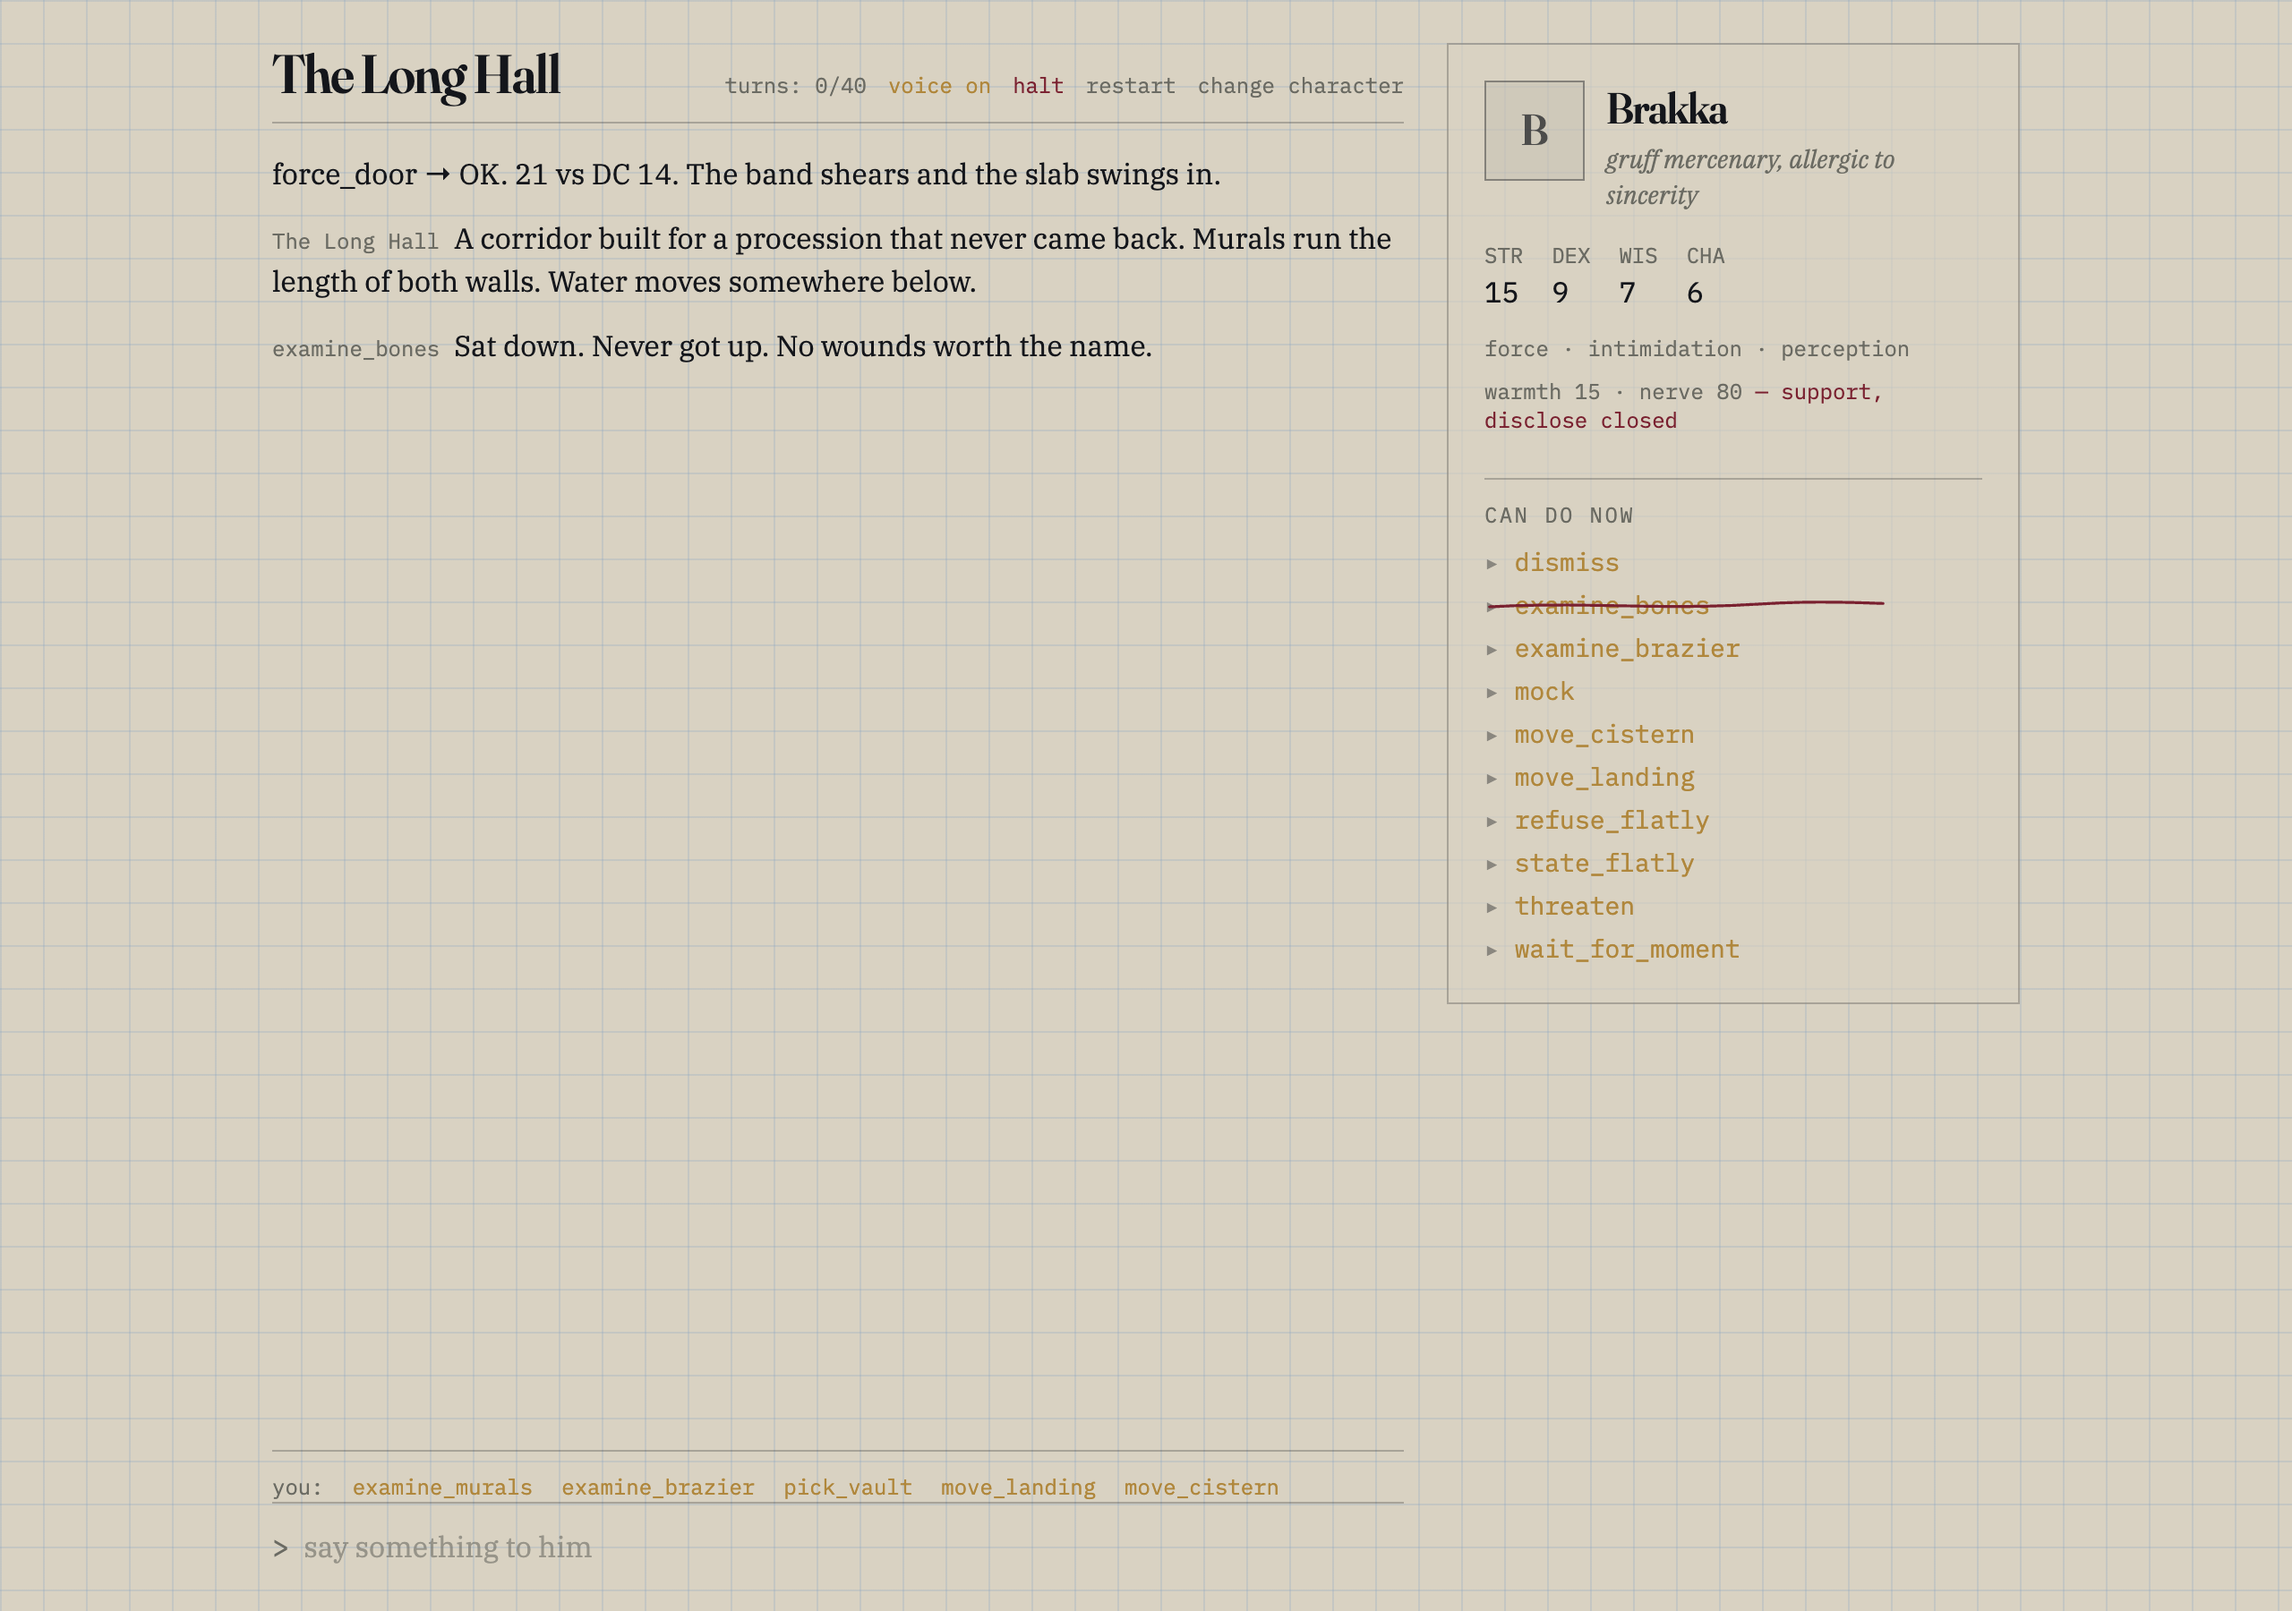
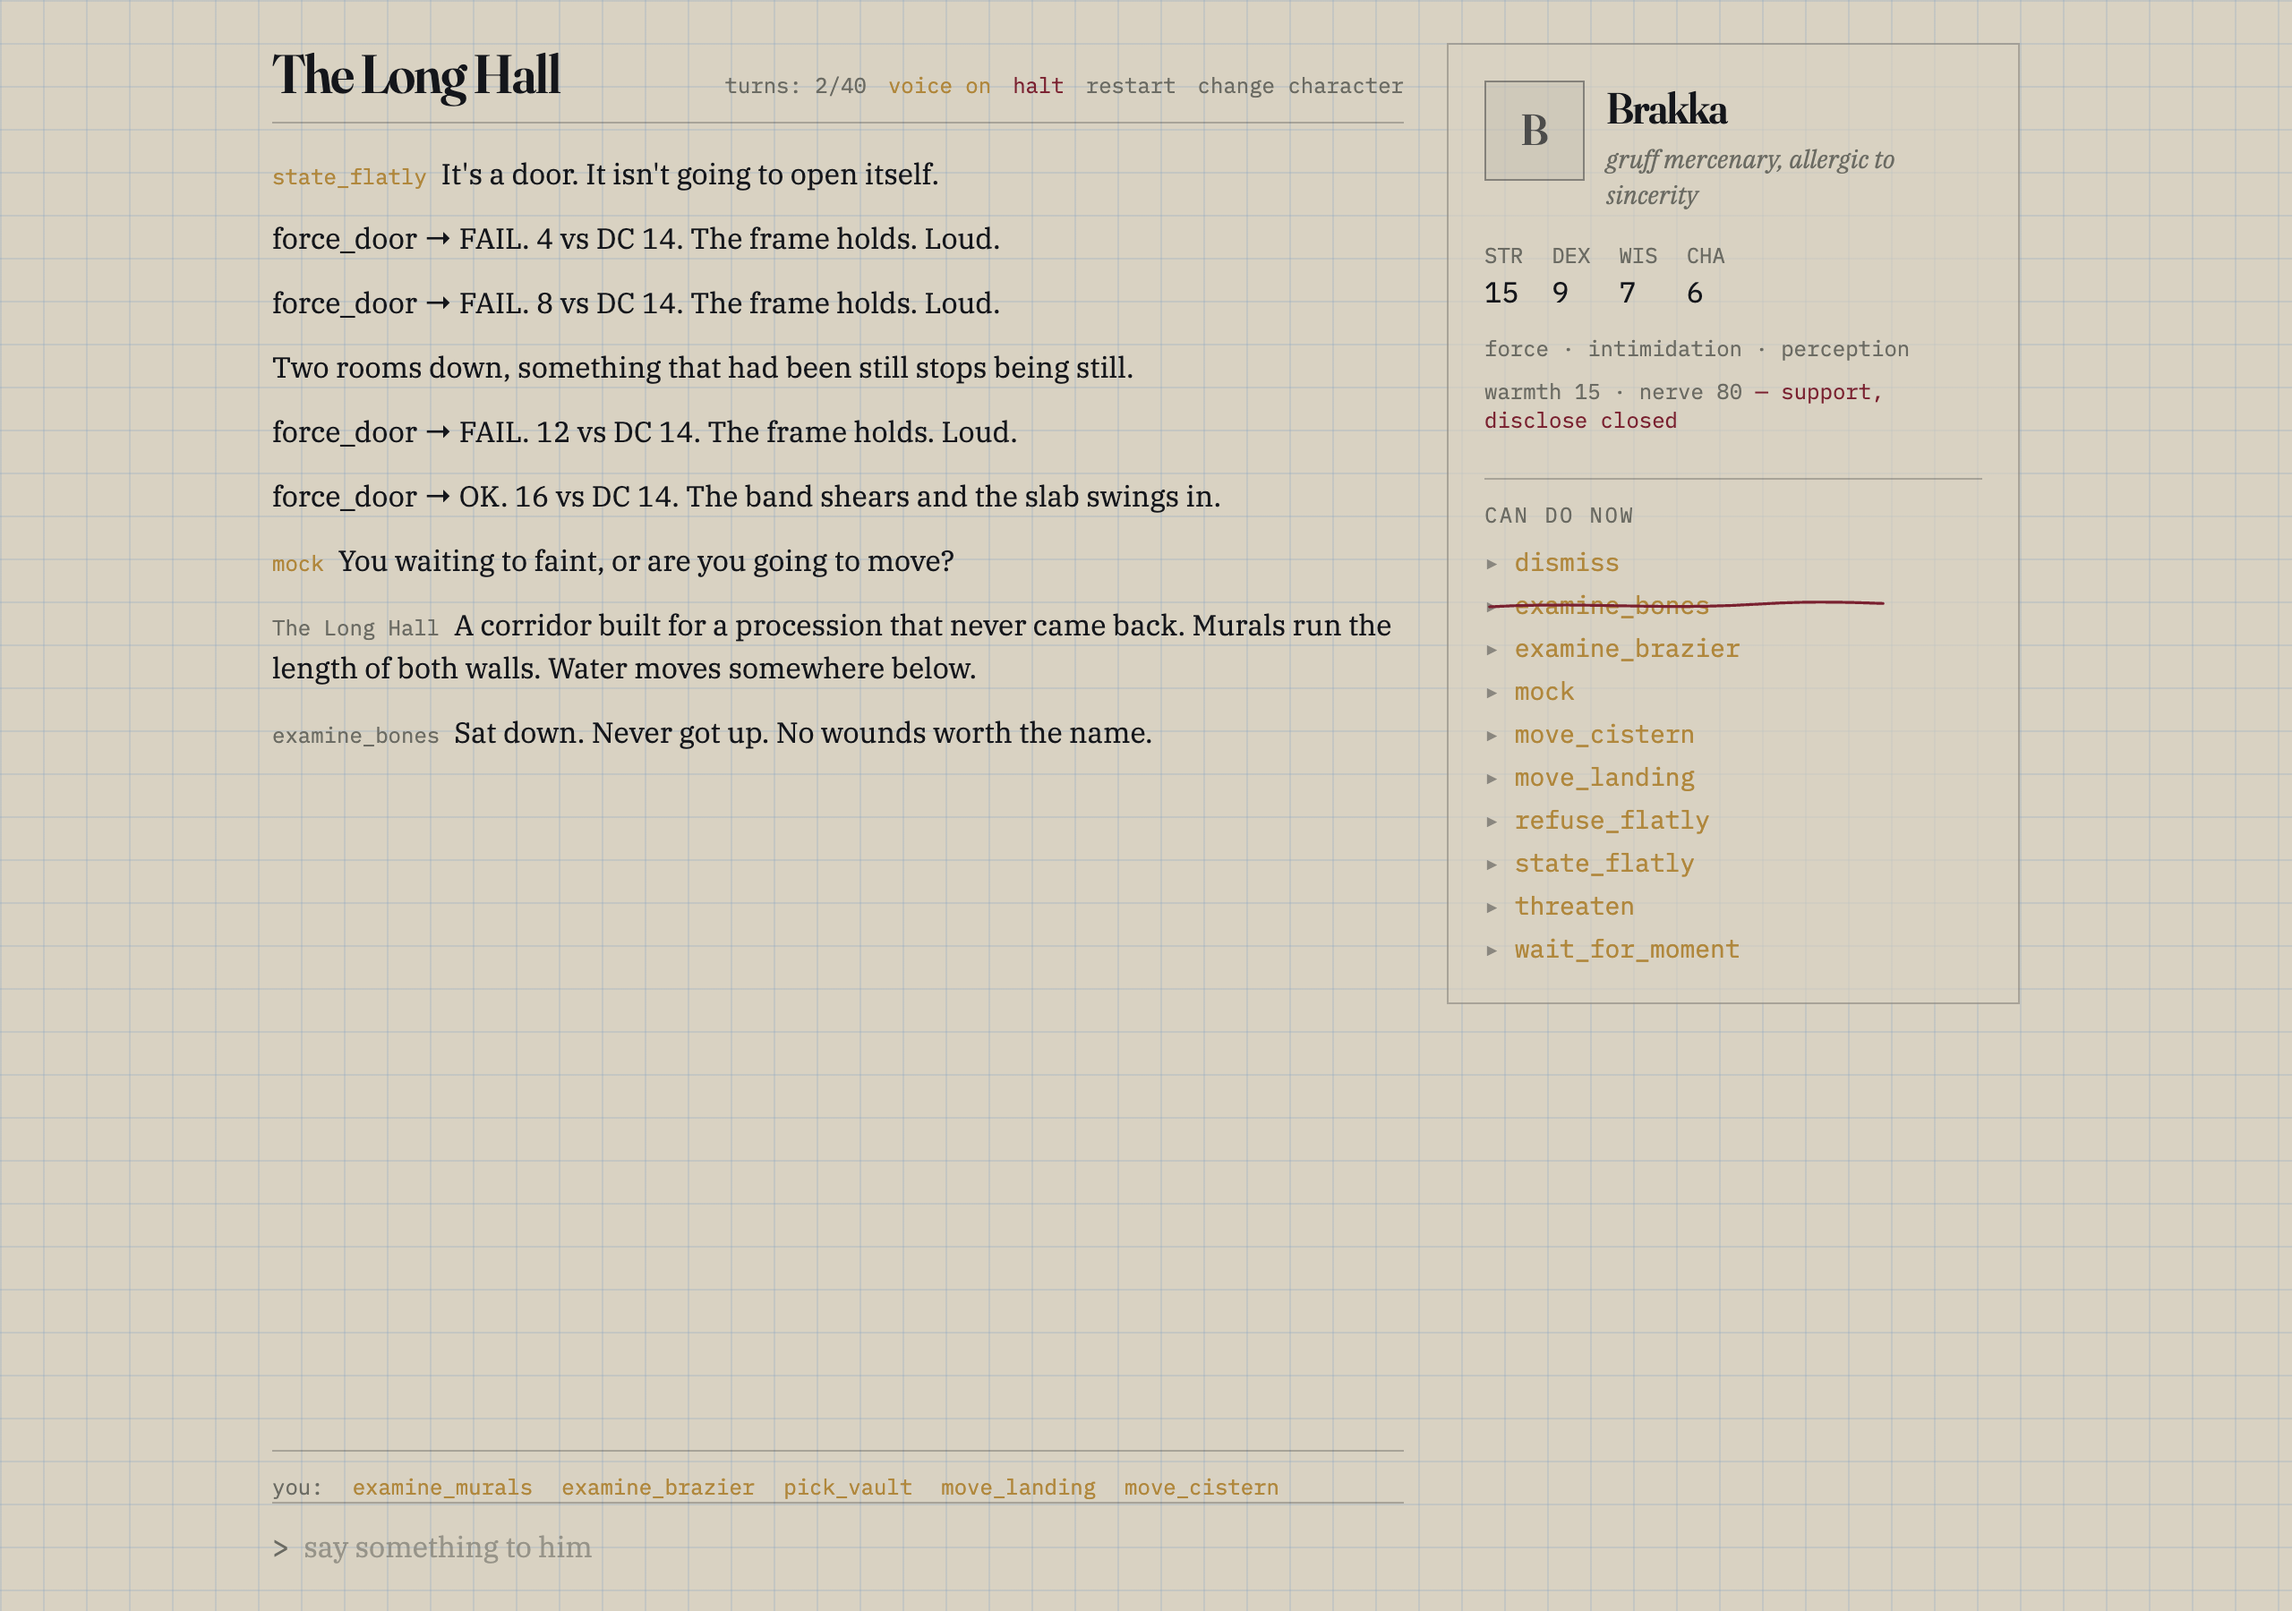
Stack the columns on narrow screens, refresh the screenshot

Changed region(s): [[0.125, 0.0933, 0.5938, 0.3111], [0.125, 0.3422, 0.5938, 0.4667], [0.4375, 0.28, 0.4688, 0.3111]]

diff --git a/src/App.tsx b/src/App.tsx
@@ -13,7 +13,7 @@ export default function App() {
   useEffect(startRegistry, [])
 
   return (
-    <main className="mx-auto flex min-h-screen max-w-5xl gap-6 p-6">
+    <main className="mx-auto flex min-h-screen max-w-5xl flex-col gap-6 p-6 lg:flex-row">
       {!hasWebMcp && (
         <div className="fixed inset-x-0 top-0 z-10 bg-brass px-4 py-2 text-center font-mono text-xs text-vellum">
           no document.modelContext here — the game is running on a local registry. For the

diff --git a/src/ui/Sheet.tsx b/src/ui/Sheet.tsx
@@ -53,7 +53,7 @@ export function Sheet() {
   const closed = Object.entries(FAMILIES).filter(([, f]) => !f.gate(sheet.disposition))
 
   return (
-    <aside className="w-80 shrink-0 self-start border border-ink/25 bg-vellum/60 p-5">
+    <aside className="w-full shrink-0 self-start border border-ink/25 bg-vellum/60 p-5 lg:w-80">
       <div className="flex items-start gap-3">
         <Monogram name={sheet.name} className="size-14 text-2xl" />
         <div className="min-w-0">
